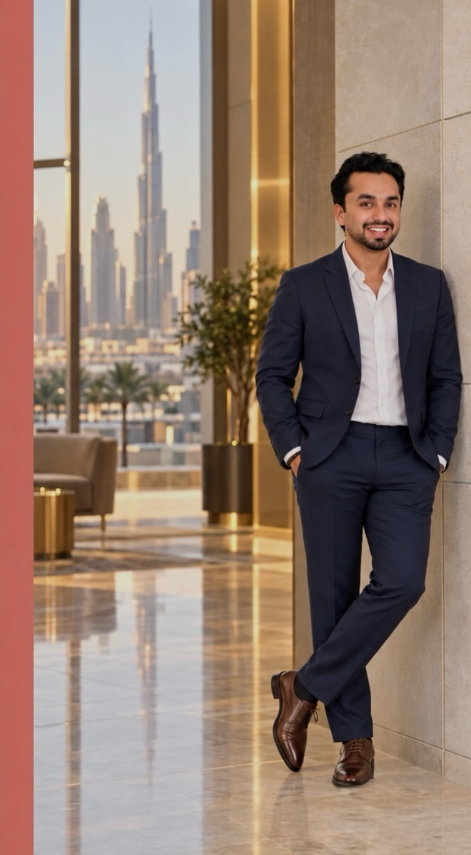
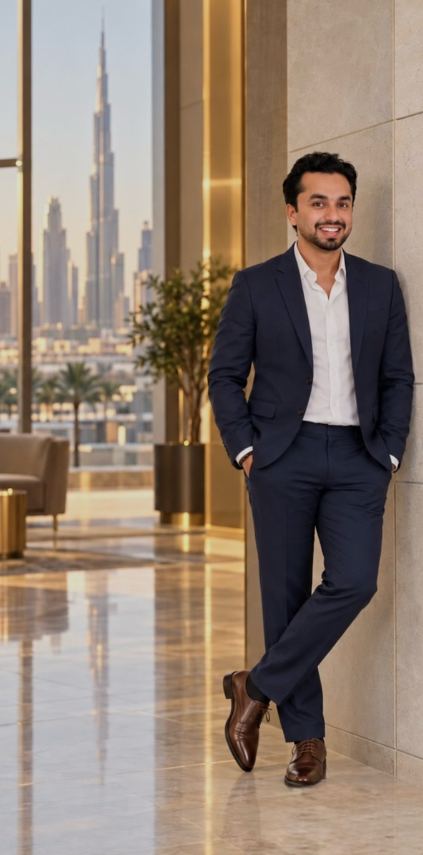
Fix image handling: natural aspect ratios, no cover-cropping
The frames forced fixed aspect ratios with object-fit:cover, and the cinematic
band rendered its image at 118% of a fixed-height container. On sources of
423-894px that magnified and cropped hard - photographs read as zoomed in, and
the coda thumbnails lost most of each frame.

Every photograph now renders at its natural aspect ratio (width:100%,
height:auto). Measured on a 390px phone: no image exceeds 1.35x its native
width on any of the three sites.

Also: cropped the stray red band off Ashmid's portrait in the source file
(471x423 wide) so it no longer needs a crop hack; the cinematic caption drops
below the image under 900px rather than covering a 260px-tall frame; the coda
gallery moves to masonry columns, since natural ratios in a fixed grid ended at
ragged heights; and Ashmid's portrait now leads on phones - its desktop order
was overriding the mobile rule.

Claude-Session: https://claude.ai/code/session_01RZB72ZGAMF91vXoeUsjVLM

diff --git a/sites/muhammed-ashmid/styles.css b/sites/muhammed-ashmid/styles.css
@@ -161,7 +161,7 @@ h3{font-size:clamp(1.4375rem,1.15rem + 1vw,2.125rem);letter-spacing:-.01em}
   border:1px solid var(--hair-g);background:var(--coal);
   box-shadow:0 60px 120px -60px #000,0 0 0 1px rgba(6,6,7,.9);
   transition:transform .8s var(--slow)}
-.plate img{width:100%;aspect-ratio:423/855;object-fit:cover;object-position:100% 50%;
+.plate img{width:100%;height:auto;display:block;
   filter:contrast(1.06) saturate(.94)}
 .plate::after{content:"";position:absolute;inset:0;z-index:4;pointer-events:none;
   background:radial-gradient(58% 44% at var(--gx,50%) var(--gy,50%),rgba(242,235,217,.14),transparent 62%);
@@ -189,9 +189,8 @@ h3{font-size:clamp(1.4375rem,1.15rem + 1vw,2.125rem);letter-spacing:-.01em}
 .ch-work h2{margin-bottom:var(--s5)}
 
 .cine{margin:0 0 var(--s6);position:relative}
-.cine-img{position:relative;overflow:hidden;height:clamp(340px,62vh,620px)}
-.cine-img img{width:100%;height:118%;object-fit:cover;object-position:50% 44%;
-  will-change:transform;filter:contrast(1.05) saturate(.92)}
+.cine-img{position:relative;overflow:hidden}
+.cine-img img{width:100%;height:auto;display:block;filter:contrast(1.05) saturate(.92)}
 .cine-img::after{content:"";position:absolute;inset:0;z-index:2;
   background:linear-gradient(180deg,rgba(6,6,7,.42),transparent 30%,rgba(6,6,7,.72) 78%,rgba(6,6,7,.94)),
              linear-gradient(96deg,rgba(6,6,7,.66),rgba(6,6,7,.10) 58%)}
@@ -215,8 +214,7 @@ h3{font-size:clamp(1.4375rem,1.15rem + 1vw,2.125rem);letter-spacing:-.01em}
 .split-img{position:relative;overflow:hidden;transform-style:preserve-3d;
   border:1px solid var(--hair);border-left:0;box-shadow:0 40px 90px -50px #000;
   transition:transform .8s var(--slow)}
-.split-img img{width:100%;aspect-ratio:16/9;object-fit:cover;object-position:52% 46%;
-  filter:brightness(1.22) contrast(1.02) saturate(.98)}
+.split-img img{width:100%;height:auto;display:block;filter:brightness(1.22) contrast(1.02) saturate(.98)}
 .split-copy{padding-left:clamp(0rem,1.5vw,1.5rem);border-left:1px solid var(--hair-g)}
 .split-copy p{margin:.9rem 0 0;color:var(--ivory-2);max-width:34ch}
 
@@ -250,10 +248,10 @@ h3{font-size:clamp(1.4375rem,1.15rem + 1vw,2.125rem);letter-spacing:-.01em}
 
 /* ─── coda ─────────────────────────────────────────────── */
 .coda{padding:var(--s6) 0 var(--s5);background:var(--coal);border-top:1px solid var(--hair)}
-.strip{display:grid;gap:clamp(.5rem,1.2vw,1rem);margin-bottom:var(--s5);
+.strip{display:grid;align-items:start;gap:clamp(.5rem,1.2vw,1rem);margin-bottom:var(--s5);
   grid-template-columns:repeat(2,minmax(0,1fr))}
 .strip figure{position:relative;margin:0;overflow:hidden;border:1px solid var(--hair);background:var(--slab)}
-.strip img{width:100%;aspect-ratio:4/3;object-fit:cover;
+.strip img{width:100%;height:auto;display:block;
   filter:saturate(.86) contrast(1.04);transition:transform 1.1s var(--slow),filter 1.1s var(--slow)}
 .strip figure:hover img{transform:scale(1.05);filter:saturate(1) contrast(1.06)}
 
@@ -332,3 +330,38 @@ h3{font-size:clamp(1.4375rem,1.15rem + 1vw,2.125rem);letter-spacing:-.01em}
   grid-template-columns:minmax(0,1fr) minmax(0,.9fr);margin-bottom:var(--s5)}
 .work-head p{margin:0;color:var(--ivory-2);max-width:44ch;font-size:.9375rem}
 @media (max-width:900px){.work-head{grid-template-columns:minmax(0,1fr);gap:1.25rem}}
+
+/* ─── photography: phone-first handling ────────────────────
+   Every photograph renders at its natural aspect ratio, so nothing is
+   magnified or cropped. On a phone the cinematic frame is only ~260px tall,
+   so its caption drops below the image instead of covering it. */
+@media (max-width:900px){
+  .cine-cap{position:static;padding:1.25rem var(--pad) 0;max-width:none}
+  .cine-cap::before{display:none}
+  .cine-cap p{max-width:none}
+  .cine-img::after{background:linear-gradient(180deg,rgba(6,6,7,.30),transparent 40%)}
+}
+@media (max-width:700px){
+  /* three-up thumbnails are ~120px on a phone — too small to read as photography */
+  .strip{grid-template-columns:repeat(2,minmax(0,1fr))}
+  .strip figure:last-child:nth-child(odd){grid-column:1 / -1}
+}
+
+
+/* ─── coda gallery: masonry columns ────────────────────────
+   Natural aspect ratios in a fixed grid end at ragged heights. Multi-column
+   flow keeps every photograph uncropped and still reads as a composed set. */
+.strip{display:block;column-count:2;column-gap:clamp(.5rem,1.2vw,1rem);
+  margin-bottom:var(--s5)}
+.strip figure{break-inside:avoid;margin:0 0 clamp(.5rem,1.2vw,1rem);
+  position:relative;overflow:hidden;border:1px solid var(--hair);background:var(--slab)}
+.strip img{width:100%;height:auto;display:block;
+  filter:saturate(.88) contrast(1.04);transition:transform 1.1s var(--slow),filter 1.1s var(--slow)}
+.strip figure:hover img{transform:scale(1.04);filter:saturate(1) contrast(1.06)}
+@media (max-width:900px){.strip{column-count:2}}
+@media (max-width:430px){.strip{column-count:1}}
+@media (max-width:960px){
+  /* face first on phones — the site-specific desktop order must not win here */
+  .hero-fig{order:0;justify-self:stretch;width:min(100%,420px)}
+  .hero-type{order:1}
+}

diff --git a/sites/lara-issa/styles.css b/sites/lara-issa/styles.css
@@ -161,7 +161,7 @@ h3{font-size:clamp(1.5rem,1.2rem + 1.1vw,2.25rem);letter-spacing:0}
   border:1px solid var(--hair-g);background:var(--coal);
   box-shadow:0 60px 120px -60px #000,0 0 0 1px rgba(6,6,7,.9);
   transition:transform .8s var(--slow)}
-.plate img{width:100%;aspect-ratio:3/4;object-fit:cover;object-position:54% 22%;
+.plate img{width:100%;height:auto;display:block;
   filter:contrast(1.06) saturate(.94)}
 .plate::after{content:"";position:absolute;inset:0;z-index:4;pointer-events:none;
   background:radial-gradient(58% 44% at var(--gx,50%) var(--gy,50%),rgba(242,235,217,.14),transparent 62%);
@@ -189,9 +189,8 @@ h3{font-size:clamp(1.5rem,1.2rem + 1.1vw,2.25rem);letter-spacing:0}
 .ch-work h2{margin-bottom:var(--s5)}
 
 .cine{margin:0 0 var(--s6);position:relative}
-.cine-img{position:relative;overflow:hidden;height:clamp(340px,62vh,620px)}
-.cine-img img{width:100%;height:118%;object-fit:cover;object-position:50% 44%;
-  will-change:transform;filter:contrast(1.05) saturate(.92)}
+.cine-img{position:relative;overflow:hidden}
+.cine-img img{width:100%;height:auto;display:block;filter:contrast(1.05) saturate(.92)}
 .cine-img::after{content:"";position:absolute;inset:0;z-index:2;
   background:linear-gradient(180deg,rgba(6,6,7,.42),transparent 30%,rgba(6,6,7,.72) 78%,rgba(6,6,7,.94)),
              linear-gradient(96deg,rgba(6,6,7,.66),rgba(6,6,7,.10) 58%)}
@@ -215,8 +214,7 @@ h3{font-size:clamp(1.5rem,1.2rem + 1.1vw,2.25rem);letter-spacing:0}
 .split-img{position:relative;overflow:hidden;transform-style:preserve-3d;
   border:1px solid var(--hair);border-right:0;box-shadow:0 40px 90px -50px #000;
   transition:transform .8s var(--slow)}
-.split-img img{width:100%;aspect-ratio:4/3;object-fit:cover;object-position:50% 42%;
-  filter:brightness(.72) contrast(1.10) saturate(.88)}
+.split-img img{width:100%;height:auto;display:block;filter:brightness(.72) contrast(1.10) saturate(.88)}
 .split-copy{padding-right:clamp(0rem,1.5vw,1.5rem);border-right:1px solid var(--hair-g)}
 .split-copy p{margin:.9rem 0 0;color:var(--ivory-2);max-width:34ch}
 
@@ -250,10 +248,10 @@ h3{font-size:clamp(1.5rem,1.2rem + 1.1vw,2.25rem);letter-spacing:0}
 
 /* ─── coda ─────────────────────────────────────────────── */
 .coda{padding:var(--s6) 0 var(--s5);background:var(--coal);border-top:1px solid var(--hair)}
-.strip{display:grid;gap:clamp(.5rem,1.2vw,1rem);margin-bottom:var(--s5);
+.strip{display:grid;align-items:start;gap:clamp(.5rem,1.2vw,1rem);margin-bottom:var(--s5);
   grid-template-columns:repeat(4,minmax(0,1fr))}
 .strip figure{position:relative;margin:0;overflow:hidden;border:1px solid var(--hair);background:var(--slab)}
-.strip img{width:100%;aspect-ratio:3/4;object-fit:cover;
+.strip img{width:100%;height:auto;display:block;
   filter:saturate(.86) contrast(1.04);transition:transform 1.1s var(--slow),filter 1.1s var(--slow)}
 .strip figure:hover img{transform:scale(1.05);filter:saturate(1) contrast(1.06)}
 
@@ -335,3 +333,33 @@ h3{font-size:clamp(1.5rem,1.2rem + 1.1vw,2.25rem);letter-spacing:0}
 .ch-close::before{content:"";position:absolute;inset:0;z-index:-1;
   background:linear-gradient(180deg,rgba(6,6,7,.90),rgba(6,6,7,.72) 46%,rgba(6,6,7,.94)),
              radial-gradient(90% 70% at 50% 46%,rgba(229,193,88,.10),transparent 66%)}
+
+/* ─── photography: phone-first handling ────────────────────
+   Every photograph renders at its natural aspect ratio, so nothing is
+   magnified or cropped. On a phone the cinematic frame is only ~260px tall,
+   so its caption drops below the image instead of covering it. */
+@media (max-width:900px){
+  .cine-cap{position:static;padding:1.25rem var(--pad) 0;max-width:none}
+  .cine-cap::before{display:none}
+  .cine-cap p{max-width:none}
+  .cine-img::after{background:linear-gradient(180deg,rgba(6,6,7,.30),transparent 40%)}
+}
+@media (max-width:700px){
+  /* three-up thumbnails are ~120px on a phone — too small to read as photography */
+  .strip{grid-template-columns:repeat(2,minmax(0,1fr))}
+  .strip figure:last-child:nth-child(odd){grid-column:1 / -1}
+}
+
+
+/* ─── coda gallery: masonry columns ────────────────────────
+   Natural aspect ratios in a fixed grid end at ragged heights. Multi-column
+   flow keeps every photograph uncropped and still reads as a composed set. */
+.strip{display:block;column-count:4;column-gap:clamp(.5rem,1.2vw,1rem);
+  margin-bottom:var(--s5)}
+.strip figure{break-inside:avoid;margin:0 0 clamp(.5rem,1.2vw,1rem);
+  position:relative;overflow:hidden;border:1px solid var(--hair);background:var(--slab)}
+.strip img{width:100%;height:auto;display:block;
+  filter:saturate(.88) contrast(1.04);transition:transform 1.1s var(--slow),filter 1.1s var(--slow)}
+.strip figure:hover img{transform:scale(1.04);filter:saturate(1) contrast(1.06)}
+@media (max-width:900px){.strip{column-count:2}}
+@media (max-width:430px){.strip{column-count:2}}

diff --git a/sites/katerina-telesh/styles.css b/sites/katerina-telesh/styles.css
@@ -162,7 +162,7 @@ h3{font-size:clamp(1.25rem,1.05rem + .8vw,1.875rem);text-transform:uppercase;let
   border:1px solid var(--hair-g);background:var(--coal);
   box-shadow:0 60px 120px -60px #000,0 0 0 1px rgba(6,6,7,.9);
   transition:transform .8s var(--slow)}
-.plate img{width:100%;aspect-ratio:1;object-fit:cover;object-position:52% 30%;
+.plate img{width:100%;height:auto;display:block;
   filter:contrast(1.06) saturate(.94)}
 .plate::after{content:"";position:absolute;inset:0;z-index:4;pointer-events:none;
   background:radial-gradient(58% 44% at var(--gx,50%) var(--gy,50%),rgba(242,235,217,.14),transparent 62%);
@@ -190,9 +190,8 @@ h3{font-size:clamp(1.25rem,1.05rem + .8vw,1.875rem);text-transform:uppercase;let
 .ch-work h2{margin-bottom:var(--s5)}
 
 .cine{margin:0 0 var(--s6);position:relative}
-.cine-img{position:relative;overflow:hidden;height:clamp(340px,62vh,620px)}
-.cine-img img{width:100%;height:118%;object-fit:cover;object-position:50% 44%;
-  will-change:transform;filter:contrast(1.05) saturate(.92)}
+.cine-img{position:relative;overflow:hidden}
+.cine-img img{width:100%;height:auto;display:block;filter:contrast(1.05) saturate(.92)}
 .cine-img::after{content:"";position:absolute;inset:0;z-index:2;
   background:linear-gradient(180deg,rgba(6,6,7,.42),transparent 30%,rgba(6,6,7,.72) 78%,rgba(6,6,7,.94)),
              linear-gradient(96deg,rgba(6,6,7,.66),rgba(6,6,7,.10) 58%)}
@@ -216,8 +215,7 @@ h3{font-size:clamp(1.25rem,1.05rem + .8vw,1.875rem);text-transform:uppercase;let
 .split-img{position:relative;overflow:hidden;transform-style:preserve-3d;
   border:1px solid var(--hair);border-left:0;box-shadow:0 40px 90px -50px #000;
   transition:transform .8s var(--slow)}
-.split-img img{width:100%;aspect-ratio:16/9;object-fit:cover;object-position:52% 46%;
-  filter:brightness(1.22) contrast(1.02) saturate(.98)}
+.split-img img{width:100%;height:auto;display:block;filter:brightness(1.22) contrast(1.02) saturate(.98)}
 .split-copy{padding-left:clamp(0rem,1.5vw,1.5rem);border-left:1px solid var(--hair-g)}
 .split-copy p{margin:.9rem 0 0;color:var(--ivory-2);max-width:34ch}
 
@@ -251,10 +249,10 @@ h3{font-size:clamp(1.25rem,1.05rem + .8vw,1.875rem);text-transform:uppercase;let
 
 /* ─── coda ─────────────────────────────────────────────── */
 .coda{padding:var(--s6) 0 var(--s5);background:var(--coal);border-top:1px solid var(--hair)}
-.strip{display:grid;gap:clamp(.5rem,1.2vw,1rem);margin-bottom:var(--s5);
+.strip{display:grid;align-items:start;gap:clamp(.5rem,1.2vw,1rem);margin-bottom:var(--s5);
   grid-template-columns:repeat(3,minmax(0,1fr))}
 .strip figure{position:relative;margin:0;overflow:hidden;border:1px solid var(--hair);background:var(--slab)}
-.strip img{width:100%;aspect-ratio:3/4;object-fit:cover;
+.strip img{width:100%;height:auto;display:block;
   filter:saturate(.86) contrast(1.04);transition:transform 1.1s var(--slow),filter 1.1s var(--slow)}
 .strip figure:hover img{transform:scale(1.05);filter:saturate(1) contrast(1.06)}
 
@@ -317,3 +315,33 @@ h3{font-size:clamp(1.25rem,1.05rem + .8vw,1.875rem);text-transform:uppercase;let
   .scroll-hint i{animation:none}
   .cine-img img{transform:none !important}
 }
+
+/* ─── photography: phone-first handling ────────────────────
+   Every photograph renders at its natural aspect ratio, so nothing is
+   magnified or cropped. On a phone the cinematic frame is only ~260px tall,
+   so its caption drops below the image instead of covering it. */
+@media (max-width:900px){
+  .cine-cap{position:static;padding:1.25rem var(--pad) 0;max-width:none}
+  .cine-cap::before{display:none}
+  .cine-cap p{max-width:none}
+  .cine-img::after{background:linear-gradient(180deg,rgba(6,6,7,.30),transparent 40%)}
+}
+@media (max-width:700px){
+  /* three-up thumbnails are ~120px on a phone — too small to read as photography */
+  .strip{grid-template-columns:repeat(2,minmax(0,1fr))}
+  .strip figure:last-child:nth-child(odd){grid-column:1 / -1}
+}
+
+
+/* ─── coda gallery: masonry columns ────────────────────────
+   Natural aspect ratios in a fixed grid end at ragged heights. Multi-column
+   flow keeps every photograph uncropped and still reads as a composed set. */
+.strip{display:block;column-count:3;column-gap:clamp(.5rem,1.2vw,1rem);
+  margin-bottom:var(--s5)}
+.strip figure{break-inside:avoid;margin:0 0 clamp(.5rem,1.2vw,1rem);
+  position:relative;overflow:hidden;border:1px solid var(--hair);background:var(--slab)}
+.strip img{width:100%;height:auto;display:block;
+  filter:saturate(.88) contrast(1.04);transition:transform 1.1s var(--slow),filter 1.1s var(--slow)}
+.strip figure:hover img{transform:scale(1.04);filter:saturate(1) contrast(1.06)}
+@media (max-width:900px){.strip{column-count:2}}
+@media (max-width:430px){.strip{column-count:2}}

diff --git a/sites/muhammed-ashmid/index.html b/sites/muhammed-ashmid/index.html
@@ -64,7 +64,7 @@
 
     <figure class="hero-fig">
       <div class="plate" data-tilt="4">
-        <img src="img/portrait-ashmid.png" width="471" height="855"
+        <img src="img/portrait-ashmid.png" width="423" height="855"
              alt="Muhammed Ashmid in a Downtown Dubai lobby, the Burj Khalifa and skyline through the glass."
              fetchpriority="high" decoding="async">
         <span class="vig"></span><span class="grain"></span>
